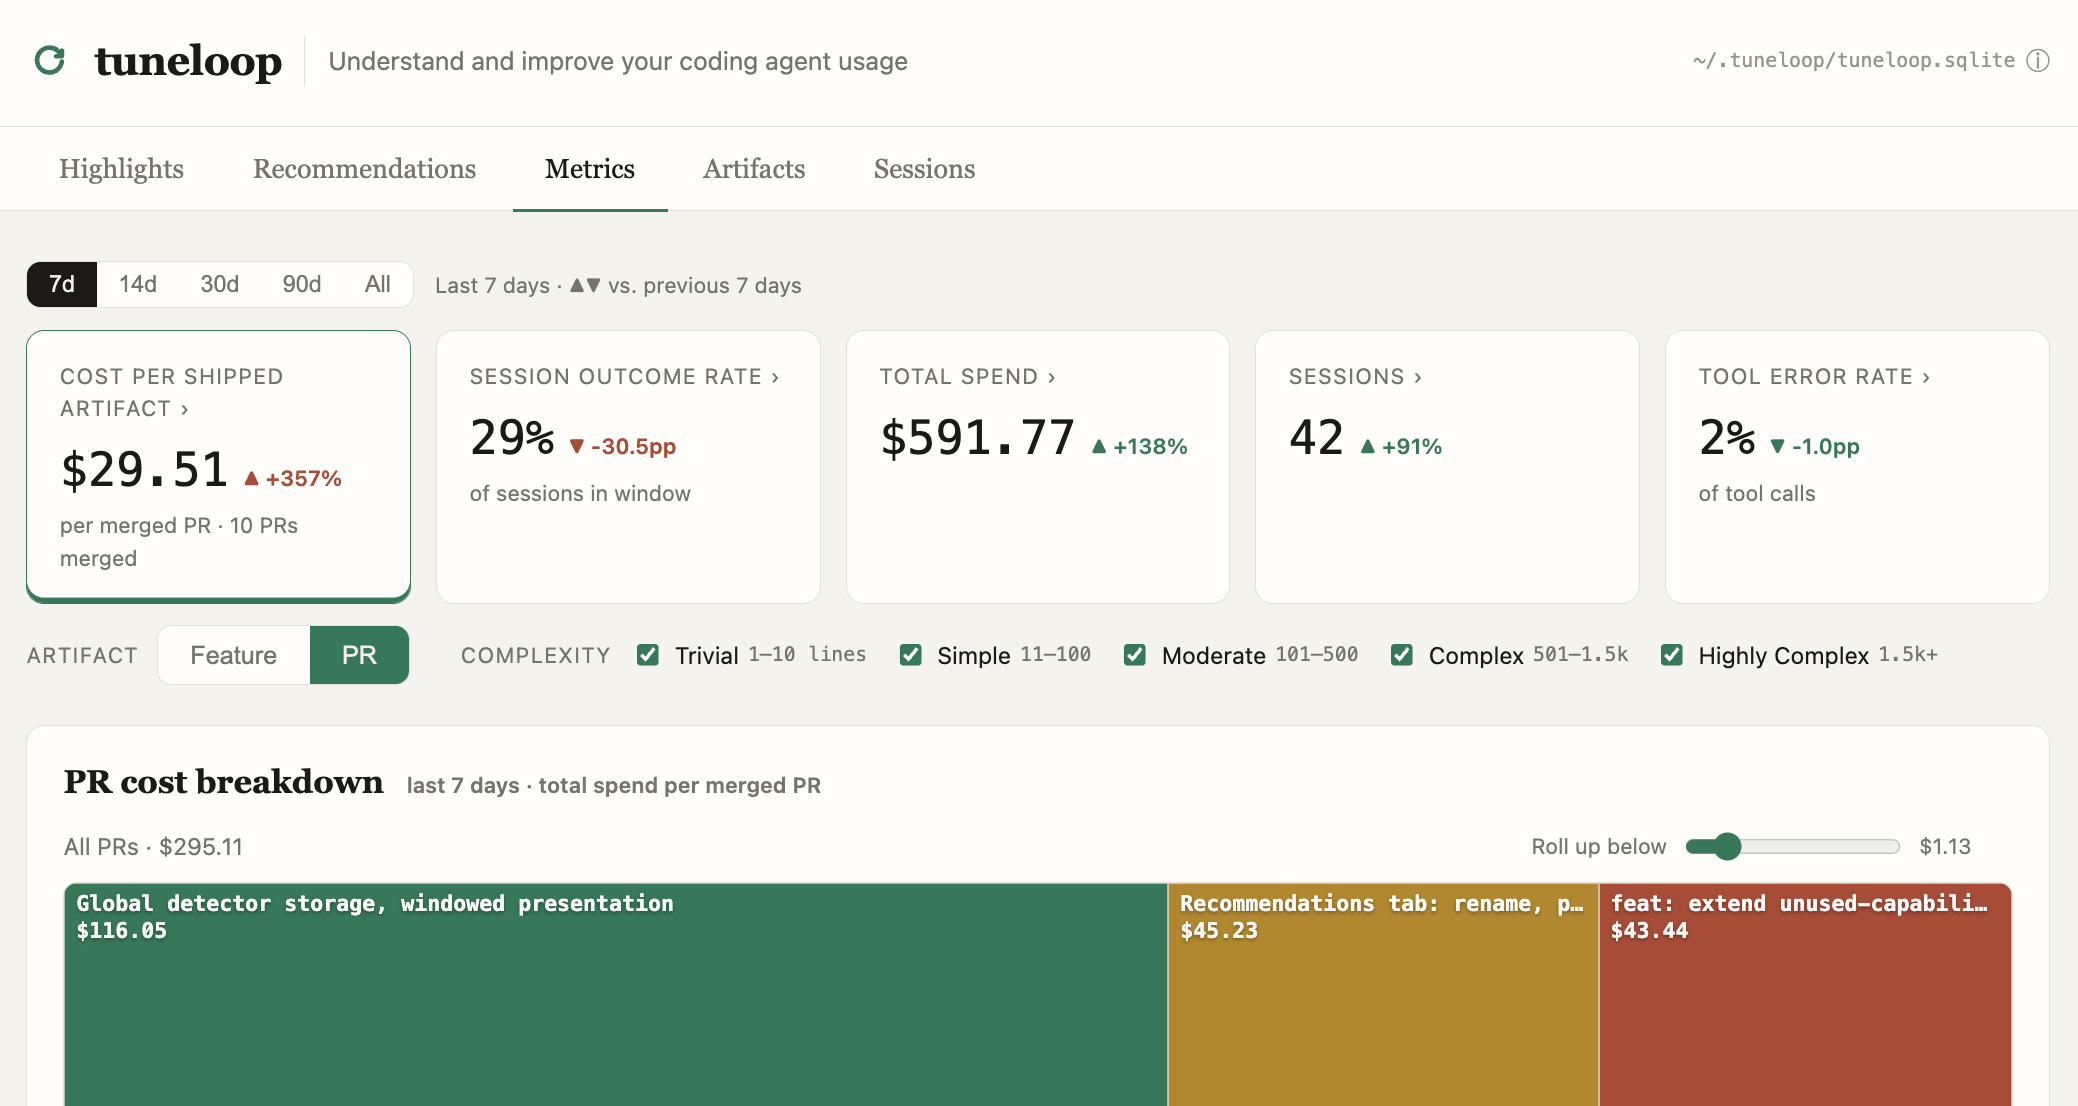
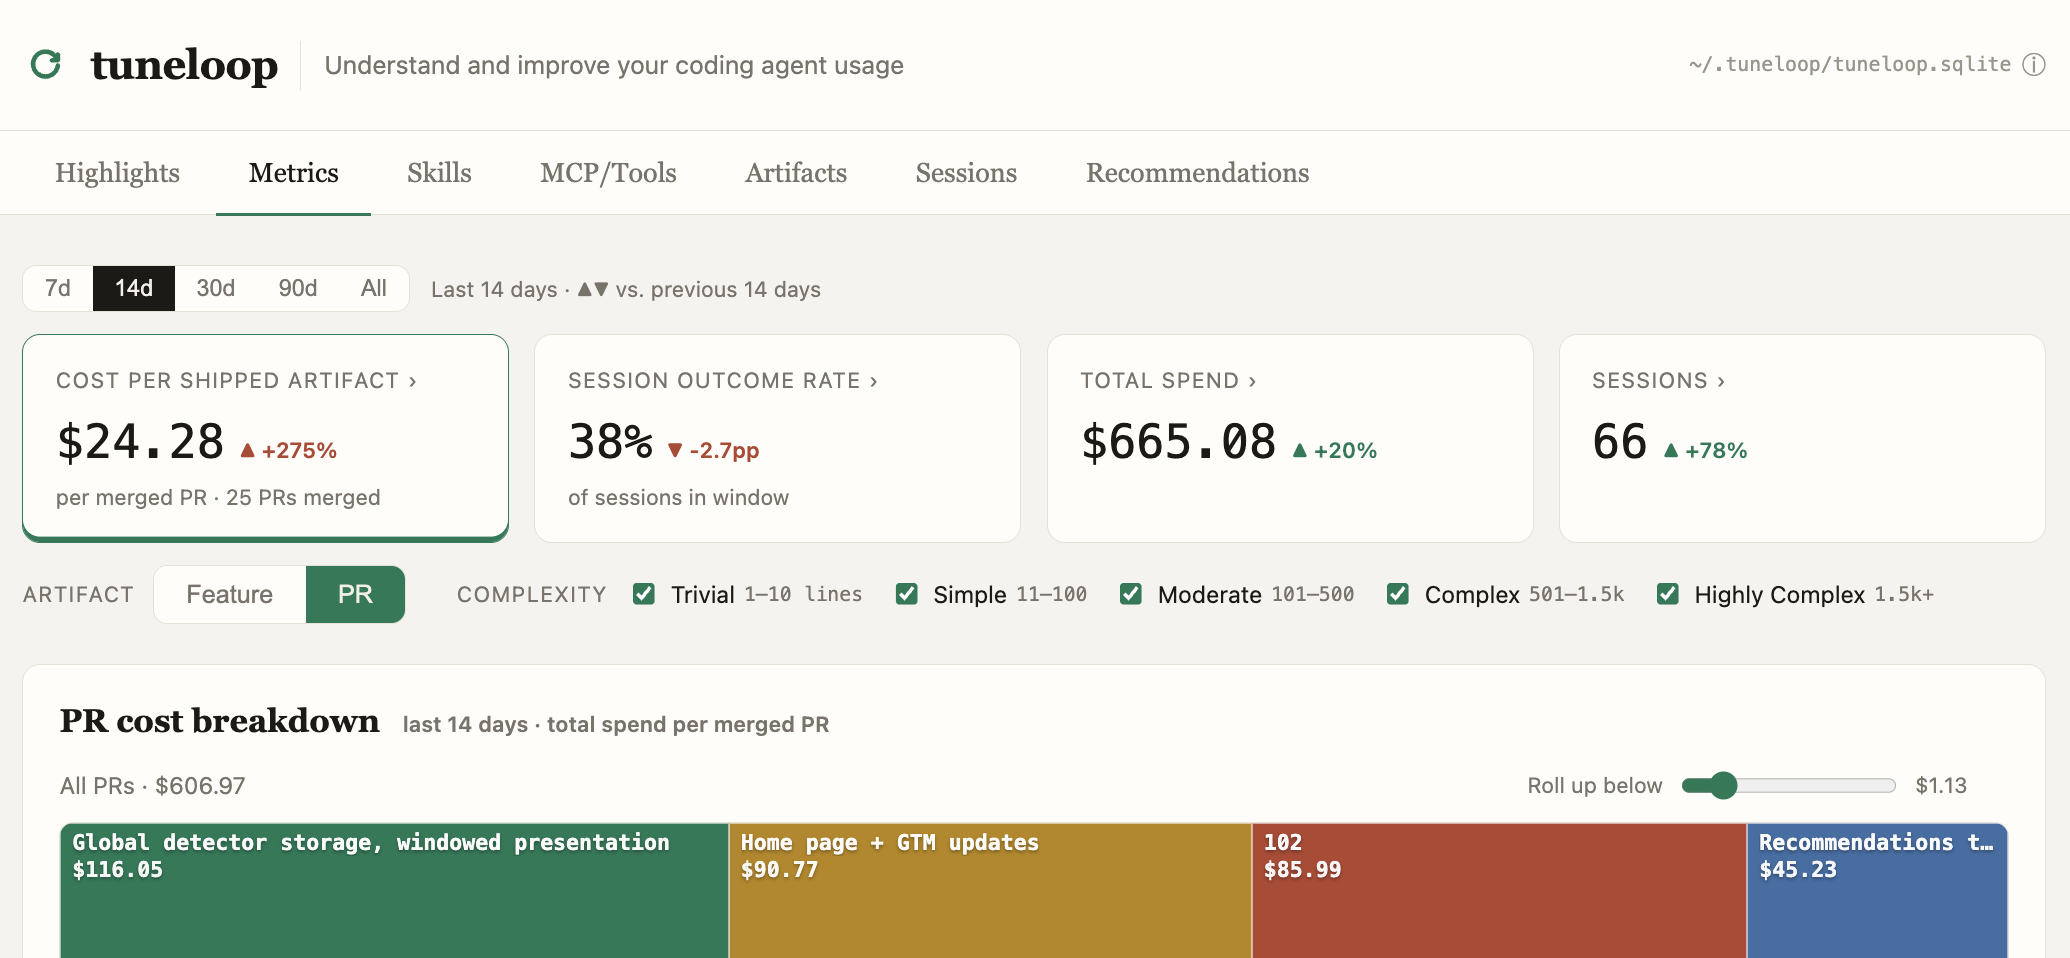
docs: refresh dashboard screenshot and enrichment list
Replace the README hero image with a current Metrics-tab capture (new nav
tabs, four headline tiles) and drop tool error rate from the alt text to
match. Add "Skill activation outcomes" to the per-session enrichment list.

diff --git a/README.md b/README.md
@@ -10,7 +10,7 @@ and recommendations for more effective usage grounded in your sessions.
 <br>
 
 <p align="center">
-  <img src="docs/img/cost_per_artifact.png" alt="tuneloop dashboard — headline metrics (cost per shipped artifact, session outcome rate, spend, sessions, tool error rate) above a per-PR cost breakdown treemap" width="900">
+  <img src="docs/img/cost_per_artifact.png" alt="tuneloop dashboard — headline metrics (cost per shipped artifact, session outcome rate, total spend, sessions) above a per-PR cost breakdown treemap" width="900">
 </p>
 
 <br>
@@ -24,6 +24,7 @@ Concretely, it enriches each session with:
 - **Work type**
 - **Key decisions**
 - **Tool error categories**
+- **Skill activation outcomes**
 
 and across sessions, identifies:
 - **Agent re-work / re-steer themes**
